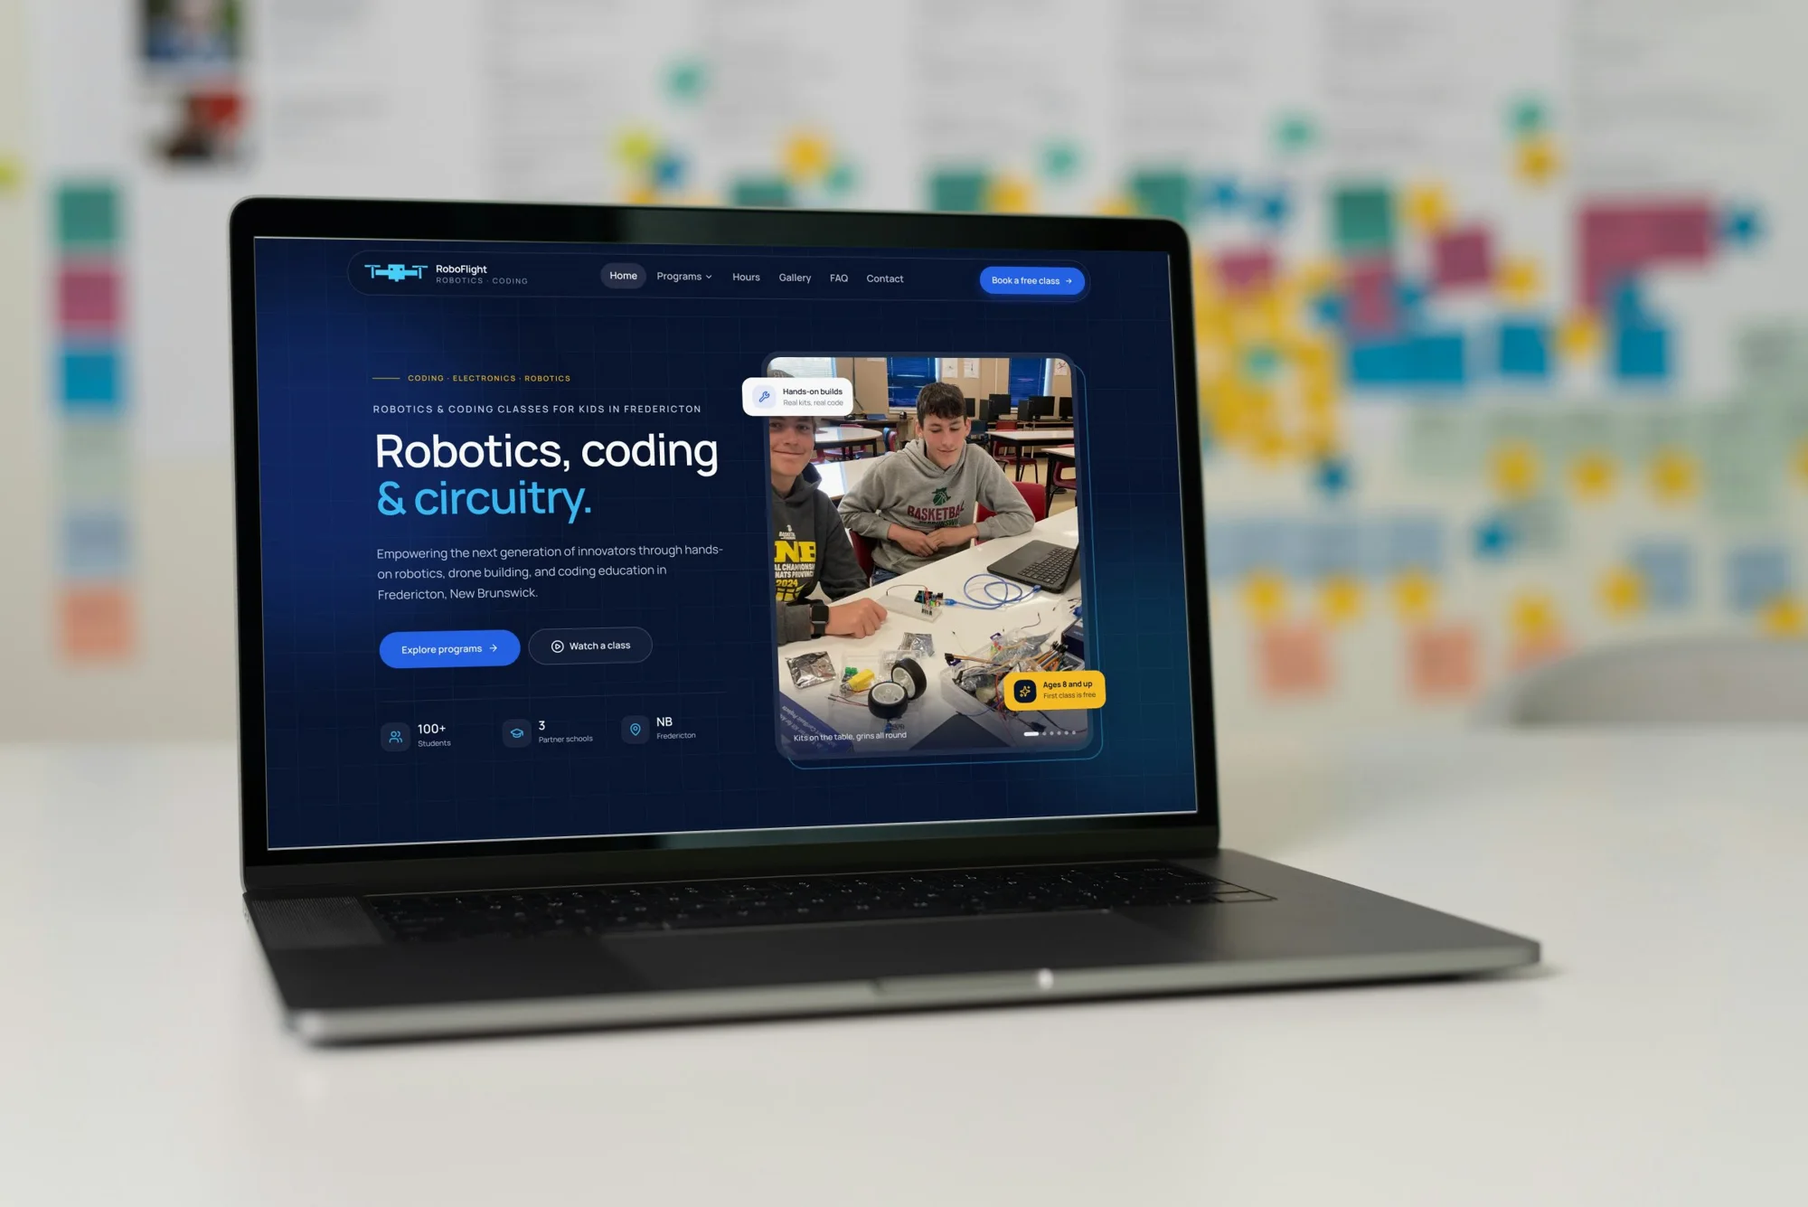
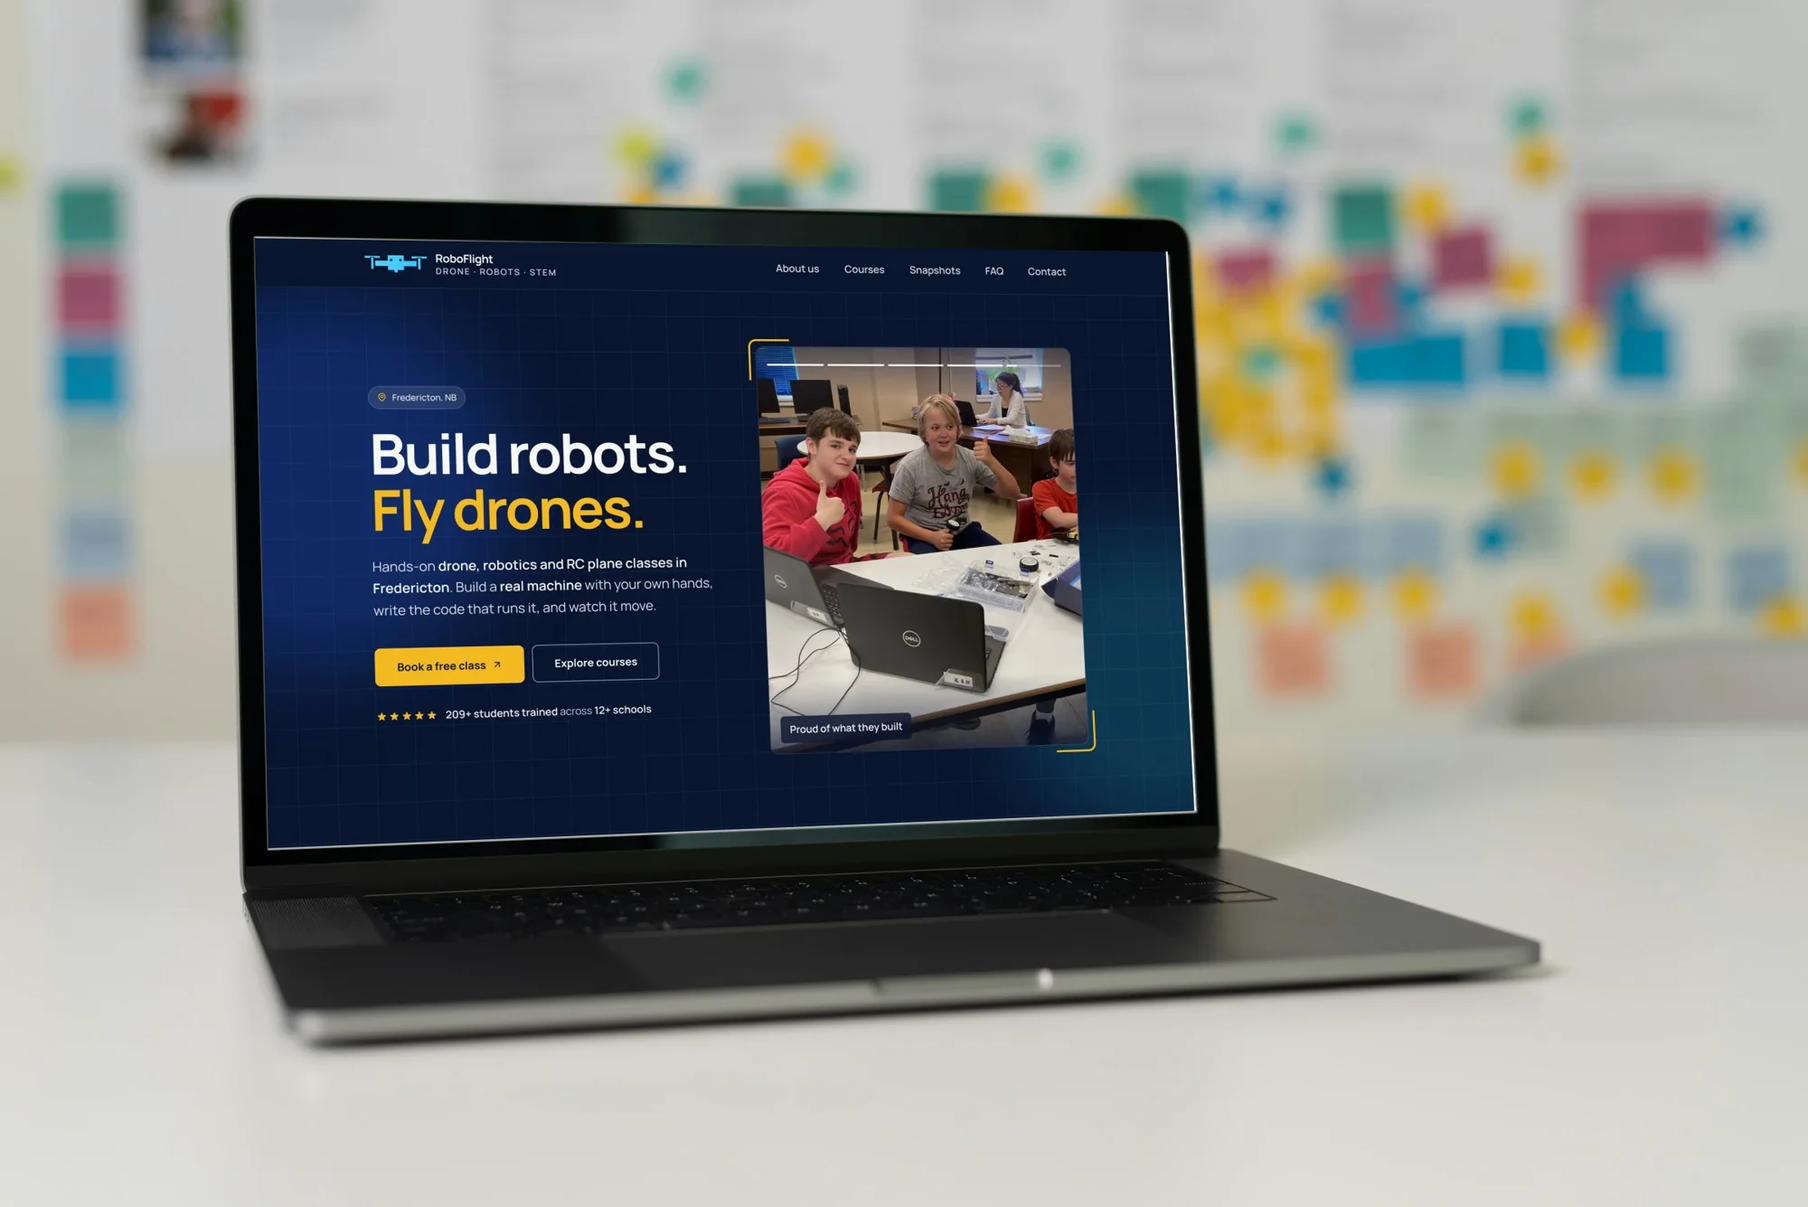
Update RoboFlight case study to match roboflight.ca

Changed region(s): [[0.186, 0.215, 0.62, 0.6449], [0.186, 0.215, 0.372, 0.2457]]

diff --git a/app/data/cases.ts b/app/data/cases.ts
@@ -19,7 +19,7 @@ export interface CaseStudy {
   challenge: string;
   idea: string;
   approach: string[];
-  logo: { src: string; darkBg: string; lightBg: string; invertOnDark: boolean; darkenOnLight: boolean; note: string };
+  logo: { src: string; lightSrc?: string; width?: string; darkBg: string; lightBg: string; invertOnDark: boolean; darkenOnLight: boolean; note: string };
   palette: { name: string; hex: string; dark?: boolean }[];
   paletteNote: string;
   type: { family: string; sample: [string, string]; accent: string; note: string };
@@ -44,14 +44,14 @@ export const cases: Record<string, CaseStudy> = {
     services: ['Logo and identity', 'Colour and type system', 'Website design', 'Development'],
     liveUrl: 'https://krishivet.ca',
     liveLabel: 'krishivet.ca',
-    intro: 'An identity and a multi-page website for an animal nutrition brand that brings Canadian-formulated supplements to farmers in Bangladesh.',
-    challenge: 'KrishiVet sits between two worlds: Canadian lab science and Bangladeshi farms. The brand had to earn the trust of farmers who are wary of new products, explain the science in plain language, and work on the phones most of them use.',
-    idea: 'Pair the credibility of science with the warmth of the farm. Deep espresso and forest green carry the trust, real photography of farmers and their animals carries the warmth, and every headline is short enough to read at a glance.',
+    intro: 'Brand identity and website for KrishiVet, a Canadian animal nutrition company supplying farmers in Bangladesh.',
+    challenge: 'Farmers in Bangladesh are cautious about new products. The brand had to build trust, explain the science simply and work well on mobile.',
+    idea: 'Forest green and espresso give the brand a steady, credible tone. Farm photography and short headlines keep it approachable.',
     approach: [
-      'Planned the site around the questions farmers actually ask: what the products do, why they can be trusted and how to order.',
-      'Designed a logo that joins a cow and a leaf above a confident wordmark, with fixed proportions for labels, signs and screens.',
-      'Set a two-part headline system: a plain statement, then the payoff in green.',
-      'Built the site with Next.js and Tailwind CSS, fully responsive from phone to desktop.',
+      'Structured the site around what the products do, why they work and how to order.',
+      'Designed a logo combining a cow and a leaf with the wordmark.',
+      'Set a two-line headline style, with the second line in green.',
+      'Built the site in Next.js and Tailwind CSS, responsive across devices.',
     ],
     logo: {
       src: '/brand/krishivet-logo.png',
@@ -59,7 +59,7 @@ export const cases: Record<string, CaseStudy> = {
       lightBg: '#F6F2EA',
       invertOnDark: true,
       darkenOnLight: false,
-      note: 'A cow and leaf in leaf green above the wordmark: farming and nature in one symbol.',
+      note: 'A cow and leaf mark above the wordmark.',
     },
     palette: [
       { name: 'Espresso', hex: '#1A1208', dark: true },
@@ -68,18 +68,18 @@ export const cases: Record<string, CaseStudy> = {
       { name: 'Harvest Gold', hex: '#C9961F' },
       { name: 'Paper', hex: '#F6F2EA' },
     ],
-    paletteNote: 'Espresso and forest green carry trust. Mint and harvest gold add warmth. Paper keeps everything light.',
-    type: { family: 'Manrope', sample: ['Healthier animals.', 'Stronger livelihoods.'], accent: '#1E5C38', note: 'One family across print and screen, set tight for headlines and open for body text.' },
+    paletteNote: 'Espresso and forest green for structure, mint and harvest gold for accents, paper as the base.',
+    type: { family: 'Manrope', sample: ['Healthier animals.', 'Stronger livelihoods.'], accent: '#1E5C38', note: 'Manrope for print and screen.' },
     hero: '/mockups/photo/kv-laptop.webp',
     laptop: '/mockups/photo/kv-laptop2.webp',
     devices: [
-      { src: '/mockups/photo/kv-tablet.webp', alt: 'KrishiVet product range on a tablet on a wooden desk', caption: 'Product range on a tablet', ratio: '4 / 5' },
-      { src: '/mockups/photo/kv-phone.webp', alt: 'KrishiVet home page on a phone held outdoors', caption: 'The home page on a phone, where most farmers visit', ratio: '4 / 5' },
+      { src: '/mockups/photo/kv-tablet.webp', alt: 'KrishiVet product range on a tablet on a wooden desk', caption: 'Product range on tablet', ratio: '4 / 5' },
+      { src: '/mockups/photo/kv-phone.webp', alt: 'KrishiVet home page on a phone held outdoors', caption: 'Home page on mobile', ratio: '4 / 5' },
     ],
     chapters: [
       {
         title: 'In print and in the field',
-        text: 'The identity applied to outdoor advertising, shop bags, stationery and posters. These are concept applications of the system.',
+        text: 'Concept applications of the identity for advertising, retail and stationery.',
         rows: [
           [{ src: '/mockups/photo/kv-billboard.webp', alt: 'KrishiVet billboard against the sky', caption: 'Roadside billboard', ratio: '3 / 2' }],
           [
@@ -92,17 +92,17 @@ export const cases: Record<string, CaseStudy> = {
       },
     ],
     screens: [
-      { src: '/screens/krishivet-home.webp', mobile: '/screens/krishivet-home-m.webp', title: 'Home page', text: 'A full-bleed farm photo and a two-part headline introduce the brand in one line, with one clear action.' },
-      { src: '/screens/krishivet-products-section.webp', mobile: '/screens/krishivet-products-section-m.webp', title: 'Product range', text: 'Four formulations as photo cards, so farmers can compare products at a glance.' },
-      { src: '/screens/krishivet-process.webp', mobile: '/screens/krishivet-process-m.webp', title: 'Our process', text: 'Research, formulation, field trials and quality release as four numbered steps.' },
-      { src: '/screens/krishivet-why.webp', mobile: '/screens/krishivet-why-m.webp', title: 'Why KrishiVet', text: 'Proof first: farms served, reorder rate and the scientists behind each product.' },
+      { src: '/screens/krishivet-home.webp', mobile: '/screens/krishivet-home-m.webp', title: 'Home page', text: 'Farm photo, brand headline and one main action.' },
+      { src: '/screens/krishivet-products-section.webp', mobile: '/screens/krishivet-products-section-m.webp', title: 'Product range', text: 'The four formulations as photo cards.' },
+      { src: '/screens/krishivet-process.webp', mobile: '/screens/krishivet-process-m.webp', title: 'Our process', text: 'From research to quality release in four steps.' },
+      { src: '/screens/krishivet-why.webp', mobile: '/screens/krishivet-why-m.webp', title: 'Why KrishiVet', text: 'Results and the scientists behind the products.' },
     ],
     stats: [
       { value: '500+', label: 'Farms served' },
       { value: '98%', label: 'Reorder rate' },
       { value: '4', label: 'Formulations' },
     ],
-    outcome: 'A complete identity and a multi-page website, live at krishivet.ca. The print and merchandise pieces shown here are concept applications of the same system.',
+    outcome: 'The identity and website are live at krishivet.ca. Print and merchandise shown here are concept work.',
     tint: '#F3EFE7',
   },
 
@@ -110,28 +110,30 @@ export const cases: Record<string, CaseStudy> = {
     slug: 'roboflight-brand',
     name: 'RoboFlight',
     kind: 'Brand identity and website',
-    year: '2024',
+    year: '2026',
     client: 'RoboFlight, Fredericton',
     role: 'Brand designer and web developer',
     services: ['Logo and identity', 'Colour and type system', 'Website design', 'Development'],
-    liveUrl: 'https://roboflight.vercel.app',
-    liveLabel: 'roboflight.vercel.app',
-    intro: 'An identity and a public website for a STEM program in New Brunswick that teaches children robotics, drone building, coding and circuitry.',
-    challenge: 'Parents want proof that their child is learning something real. Children want it to feel like play. One visual system had to feel credible to parents and educators while staying exciting for kids.',
-    idea: 'Kids learn faster when they build it themselves. A pixel-built drone, a night-navy and flight-blue palette that feels technical to adults and bright to children, and photography of real students at work.',
+    liveUrl: 'https://roboflight.ca',
+    liveLabel: 'roboflight.ca',
+    intro: 'Brand refresh and website for RoboFlight, a Fredericton STEM school that teaches drone, robotics and RC plane building to students in Grades 3 to 10 and adults.',
+    challenge: 'RoboFlight needed one site for three audiences: parents, schools and students. It had to explain three courses clearly and make booking a free class simple.',
+    idea: 'The site leads with what students make. Navy and blue set a technical tone, amber marks each call to action, and photos from real classes show the work.',
     approach: [
-      'Drew a pixel-built drone above a wide, technical wordmark that reads at any size, from a favicon to a classroom banner.',
-      'Set night navy for the engineering tone, flight blue for action, and sky and amber for energy.',
-      'Designed an interactive build guide that shows what students actually make in class.',
-      'Developed the site with Next.js and Tailwind CSS and deployed it on Vercel, with a short free-class booking flow.',
+      'Redrew the logo as a horizontal lockup that works in the navigation bar and at small sizes.',
+      'Gave each course its own page with skills, age range and a booking link.',
+      'Added a page for schools with partner logos and a principal\'s testimonial.',
+      'Built the site in Next.js and Tailwind CSS with a three-step booking form.',
     ],
     logo: {
-      src: '/brand/roboflight-lockup.png',
+      src: '/brand/roboflight-lockup-white.png',
+      lightSrc: '/brand/roboflight-lockup-dark.png',
+      width: '64%',
       darkBg: '#0A1530',
       lightBg: '#EEF2F7',
       invertOnDark: false,
-      darkenOnLight: true,
-      note: 'A pixel-built drone above a wide, technical wordmark. It reads instantly at any size.',
+      darkenOnLight: false,
+      note: 'Pixel drone mark with the RoboFlight wordmark and tagline.',
     },
     palette: [
       { name: 'Night Navy', hex: '#0A1530', dark: true },
@@ -140,44 +142,46 @@ export const cases: Record<string, CaseStudy> = {
       { name: 'Amber', hex: '#FBBF24' },
       { name: 'Cloud', hex: '#F8FAFC' },
     ],
-    paletteNote: 'Night navy sets the engineering tone, flight blue drives action, and sky and amber add energy for kids.',
-    type: { family: 'Manrope', sample: ['Robotics, coding', '& circuitry.'], accent: '#2563EB', note: 'Friendly, rounded shapes that still feel precise. One family across the whole system.' },
+    paletteNote: 'Navy and blue for structure, sky for the mark and amber for calls to action.',
+    type: { family: 'Manrope', sample: ['Build robots.', 'Fly drones.'], accent: '#2563EB', note: 'Manrope for all text. Headlines are set bold, with the second line in colour.' },
     hero: '/mockups/photo/rf-laptop.webp',
     laptop: '/mockups/photo/rf-laptop2.webp',
     devices: [
-      { src: '/mockups/photo/rf-tablet.webp', alt: 'RoboFlight build guide on a tablet in use', caption: 'The build guide on a classroom tablet', ratio: '16 / 9' },
-      { src: '/mockups/photo/rf-phone.webp', alt: 'RoboFlight booking page on a phone', caption: 'Booking a free class on a phone', ratio: '16 / 9' },
+      { src: '/mockups/photo/rf-tablet.webp', alt: 'RoboFlight courses section on a tablet in use', caption: 'Courses section on tablet', ratio: '16 / 9' },
+      { src: '/mockups/photo/rf-phone.webp', alt: 'RoboFlight home page on a phone', caption: 'Home page on mobile', ratio: '16 / 9' },
     ],
     chapters: [
       {
         title: 'In the classroom',
-        text: 'The kit students take home, the guide they follow and what they wear and see around the program. These are concept applications.',
+        text: 'Concept applications of the identity for kits, course material and events.',
         rows: [
-          [{ src: '/mockups/photo/rf-box.webp', alt: 'RoboFlight Robot Car Kit box printed on kraft card', caption: 'Robot Car Kit box', ratio: '3 / 2' }],
+          [{ src: '/mockups/photo/rf-box.webp', alt: 'RoboFlight quadcopter kit box printed on kraft card', caption: 'Quadcopter kit box', ratio: '3 / 2' }],
           [
-            { src: '/mockups/photo/rf-notebook.webp', alt: 'RoboFlight student build guide on a wooden desk', caption: 'Student build guide', ratio: '3 / 2' },
-            { src: '/mockups/photo/rf-sign.webp', alt: 'RoboFlight sidewalk sign for a free class', caption: 'Sidewalk sign for open days', ratio: '3 / 2' },
+            { src: '/mockups/photo/rf-notebook.webp', alt: 'RoboFlight student guide for the Quadcopter Drone course', caption: 'Quadcopter Drone student guide', ratio: '3 / 2' },
+            { src: '/mockups/photo/rf-sign.webp', alt: 'RoboFlight sidewalk sign for a free trial class', caption: 'Sidewalk sign', ratio: '3 / 2' },
           ],
           [
-            { src: '/mockups/photo/rf-tshirt.webp', alt: 'RoboFlight t-shirt', caption: 'Club t-shirt', ratio: '4 / 5' },
+            { src: '/mockups/photo/rf-tshirt.webp', alt: 'RoboFlight t-shirt', caption: 'T-shirt', ratio: '4 / 5' },
             { src: '/mockups/photo/rf-cards.webp', alt: 'RoboFlight business card on a stack', caption: 'Business cards', ratio: '4 / 5' },
           ],
-          [{ src: '/mockups/photo/rf-poster.webp', alt: 'RoboFlight poster in a black frame on a dresser', caption: 'Poster, framed', ratio: '3 / 2' }],
+          [{ src: '/mockups/photo/rf-poster.webp', alt: 'RoboFlight poster in a black frame on a dresser', caption: 'Poster', ratio: '3 / 2' }],
         ],
       },
     ],
     screens: [
-      { src: '/screens/roboflight-home.webp', mobile: '/screens/roboflight-home-m.webp', title: 'Home page', text: 'A night-navy hero with a real classroom photo, the class promise and two clear actions.' },
-      { src: '/screens/roboflight-programs.webp', mobile: '/screens/roboflight-programs-m.webp', title: 'Programs', text: 'Three programs as cards, with the most popular one highlighted and the age range on each.' },
-      { src: '/screens/roboflight-build.webp', mobile: '/screens/roboflight-build-m.webp', title: 'Interactive robot builder', text: 'Children drag real parts onto a board and wire up their own robot car in the browser.' },
-      { src: '/screens/roboflight-book.webp', mobile: '/screens/roboflight-book-m.webp', title: 'Book a free class', text: 'Choose a program, pick a day and time, and send the request in under a minute.' },
+      { src: '/screens/roboflight-home.webp', mobile: '/screens/roboflight-home-m.webp', title: 'Home page', text: 'Headline, classroom photo and the two main actions.' },
+      { src: '/screens/roboflight-courses.webp', mobile: '/screens/roboflight-home-m.webp', title: 'Courses', text: 'The three courses and the skills each one covers.' },
+      { src: '/screens/roboflight-teach.webp', mobile: '/screens/roboflight-home-m.webp', title: 'How we teach', text: 'The teaching method in three steps.' },
+      { src: '/screens/roboflight-book.webp', mobile: '/screens/roboflight-book-m.webp', title: 'Book a free class', text: 'A three-step booking form. No payment is required.' },
+      { src: '/screens/roboflight-schools.webp', mobile: '/screens/roboflight-home-m.webp', title: 'For schools', text: 'Program details for principals and teachers.' },
+      { src: '/screens/roboflight-partners.webp', mobile: '/screens/roboflight-home-m.webp', title: 'Partner schools', text: 'Eight partner schools across New Brunswick.' },
     ],
     stats: [
-      { value: '100+', label: 'Students' },
-      { value: '3', label: 'Partner schools' },
-      { value: '8+', label: 'Starting age' },
+      { value: '209+', label: 'Students trained' },
+      { value: '12+', label: 'Schools across New Brunswick' },
+      { value: '3', label: 'Courses' },
     ],
-    outcome: 'A responsive website with one consistent brand system, where parents can book a free trial class. The print and merchandise pieces shown here are concept applications of the same system.',
+    outcome: 'The site launched at roboflight.ca in 2026. Print and merchandise shown here are concept work.',
     tint: '#EEF2F7',
   },
 };

diff --git a/app/data/projects.ts b/app/data/projects.ts
@@ -404,20 +404,20 @@ export const projects: Project[] = [
   {
     slug: 'roboflight-brand',
     title: 'ROBOFLIGHT',
-    tagline: "Brand identity and website for a kids’ robotics school in Fredericton",
+    tagline: "Brand identity and website for a drone and robotics school in Fredericton",
     category: 'UI/UX',
     coverImage: '/projects/case-shots/roboflight-home.webp',
-    year: '2024',
+    year: '2026',
     tools: ['Figma', 'Next.js', 'Tailwind CSS', 'Adobe Illustrator'],
     role: 'Brand Designer & Web Developer',
     client: 'RoboFlight — Fredericton, New Brunswick',
-    description: "RoboFlight is a STEM education program in New Brunswick that teaches robotics, drone building, coding and circuitry. I designed and developed its public website from scratch.",
+    description: "RoboFlight is a Fredericton STEM school where students build drones, robots and RC planes. I refreshed its identity and designed and developed its new website at roboflight.ca.",
     challenge: "The site had to feel credible to parents and educators while staying exciting for children. One visual system had to carry both moods.",
     approach: ["Set a night-navy and flight-blue palette that feels technical to parents and bright to kids.", "Wrote short, two-part headlines so every section can be understood at a glance.", "Designed an interactive Arduino build guide that shows what students actually make in class.", "Developed the site with Next.js and Tailwind CSS and deployed it on Vercel."],
     deliverables: ["Logo and colour palette", "Home page", "Programs section", "Arduino build guide", "Partner schools and testimonials", "Free-class booking and contact"],
     outcome: "A responsive website with one consistent brand system, live on Vercel, where parents can book a free trial class.",
     featured: true,
-    liveUrl: 'https://roboflight.vercel.app',
+    liveUrl: 'https://roboflight.ca',
     media: [
       { type: 'image', src: '/projects/case-shots/roboflight-home.webp', alt: "Roboflight \u2014 Home page on desktop, tablet and phone", caption: "Home page", description: "A night-navy hero with a real classroom photo, the class promise and two clear actions to explore programs or watch a class." },
       { type: 'image', src: '/projects/case-shots/roboflight-programs.webp', alt: "Roboflight \u2014 Programs on desktop, tablet and phone", caption: "Programs", description: "Three programs as cards, with the most popular one highlighted and the age range shown on every card." },

diff --git a/app/components/CaseStudy.tsx b/app/components/CaseStudy.tsx
@@ -118,9 +118,9 @@ export default function CaseStudy({ slug }: { slug: string }) {
           <div className="frame grid place-items-center" style={{ aspectRatio: '4 / 3', background: c.logo.lightBg }}>
             {/* eslint-disable-next-line @next/next/no-img-element */}
             <img
-              src={c.logo.src}
+              src={c.logo.lightSrc ?? c.logo.src}
               alt={`${c.name} logo on a light background`}
-              style={{ width: '46%', height: 'auto', objectFit: 'contain', filter: c.logo.darkenOnLight ? 'brightness(0)' : undefined }}
+              style={{ width: c.logo.width ?? '46%', height: 'auto', objectFit: 'contain', filter: c.logo.darkenOnLight ? 'brightness(0)' : undefined }}
             />
           </div>
         </Reveal>
@@ -130,7 +130,7 @@ export default function CaseStudy({ slug }: { slug: string }) {
             <img
               src={c.logo.src}
               alt={`${c.name} logo on a dark background`}
-              style={{ width: '46%', height: 'auto', objectFit: 'contain', filter: c.logo.invertOnDark ? 'brightness(0) invert(1)' : undefined }}
+              style={{ width: c.logo.width ?? '46%', height: 'auto', objectFit: 'contain', filter: c.logo.invertOnDark ? 'brightness(0) invert(1)' : undefined }}
             />
           </div>
         </Reveal>
@@ -198,7 +198,7 @@ export default function CaseStudy({ slug }: { slug: string }) {
       ))}
 
       {/* website */}
-      <Chapter n={`0${c.chapters.length + 2}`} title="Website" text="Designed in Figma and built with Next.js and Tailwind CSS. Every page works from phone to desktop." />
+      <Chapter n={`0${c.chapters.length + 2}`} title="Website" text="Designed in Figma and built in Next.js and Tailwind CSS." />
       <div className="wrap">
         <Reveal>
           <ParallaxImage ratio="3 / 2" src={c.laptop} alt={`${c.name} website on a laptop`} />
